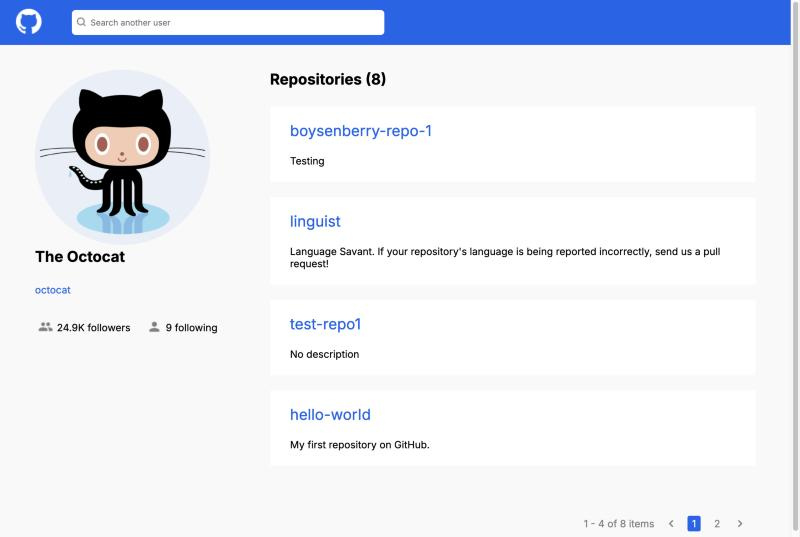
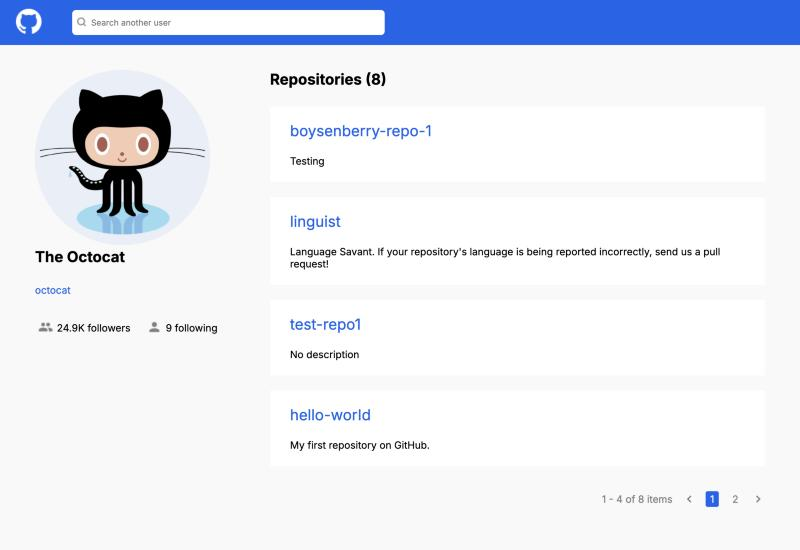
fix: place pagination under the repositories list
Render the pagination inside the repositories section so it stays next
to the list on wide screens, aligned with the right edge of the cards.

Also strengthen the search button hover state and exclude the animated
glow from pointer events.

diff --git a/src/components/Profile/Profile.tsx b/src/components/Profile/Profile.tsx
@@ -1,5 +1,5 @@
 import Image from "../Image/ImageComponent";
-import { FC } from "react";
+import { FC, ReactNode } from "react";
 import styles from "./styles.profile.module.css";
 import FollowersIcon from "../../images/followers.png";
 import FollowingIcon from "../../images/following.png";
@@ -13,6 +13,7 @@ type Props = {
   user: GithubUser;
   repositories: GithubRepository[];
   repositoriesStatus: RepositoriesStatus;
+  children?: ReactNode;
 };
 
 const numberFormatter = new Intl.NumberFormat("en", {
@@ -20,7 +21,12 @@ const numberFormatter = new Intl.NumberFormat("en", {
   maximumFractionDigits: 1,
 });
 
-const Profile: FC<Props> = ({ user, repositories, repositoriesStatus }) => {
+const Profile: FC<Props> = ({
+  user,
+  repositories,
+  repositoriesStatus,
+  children,
+}) => {
   return (
     <div className={styles.mainInfo}>
       <div className={styles.blockProfile}>
@@ -84,6 +90,7 @@ const Profile: FC<Props> = ({ user, repositories, repositoriesStatus }) => {
               />
             ))
           )}
+          {children}
         </div>
       ) : (
         <StatusDisplay {...LIST_STATUS.no_repositories_status} />

diff --git a/src/App.test.tsx b/src/App.test.tsx
@@ -36,6 +36,32 @@ describe("App", () => {
     expect(screen.getByText("1 - 4 of 9 items")).toBeInTheDocument();
   });
 
+  it("shows the pagination inside the repositories section", async () => {
+    mockGithub({ octocat: {} });
+    render(<App />);
+
+    await searchFor("octocat");
+
+    const heading = await screen.findByRole("heading", {
+      name: "Repositories (9)",
+    });
+    expect(heading.parentElement).toContainElement(
+      screen.getByText("1 - 4 of 9 items")
+    );
+  });
+
+  it("hides the pagination for a user without repositories", async () => {
+    mockGithub({ empty: { user: { public_repos: 0 } } });
+    render(<App />);
+
+    await searchFor("empty");
+
+    expect(
+      await screen.findByText("Repository list is empty")
+    ).toBeInTheDocument();
+    expect(screen.queryByText(/of 0 items/)).not.toBeInTheDocument();
+  });
+
   it("searches an example user from the start screen", async () => {
     mockGithub({ torvalds: {} });
     render(<App />);

diff --git a/src/components/Hero/style.hero.module.css b/src/components/Hero/style.hero.module.css
@@ -30,6 +30,7 @@
   );
   filter: blur(90px);
   transform: translate(-50%, -50%);
+  pointer-events: none;
   animation: glowSpin 18s linear infinite;
 }
 
@@ -128,11 +129,18 @@
   cursor: pointer;
   font-size: 16px;
   font-weight: 600;
-  transition: background 0.15s ease;
+  transition:
+    background 0.15s ease,
+    box-shadow 0.15s ease;
 }
 
 .searchButton:hover {
   background: var(--color-bg-hover);
+  box-shadow: 0 6px 16px rgb(0 100 235 / 35%);
+}
+
+.searchButton:active {
+  box-shadow: none;
 }
 
 .examples {
@@ -159,14 +167,12 @@
   font-size: 14px;
   transition:
     border-color 0.15s ease,
-    color 0.15s ease,
-    transform 0.15s ease;
+    color 0.15s ease;
 }
 
 .example:hover {
   border-color: var(--color-bg);
   color: var(--color-bg);
-  transform: translateY(-1px);
 }
 
 .searchButton:focus-visible,
@@ -198,5 +204,10 @@
   .glow,
   .content {
     animation: none;
+  }
+
+  .searchButton,
+  .example {
+    transition: none;
   }
 }

diff --git a/src/App.tsx b/src/App.tsx
@@ -68,14 +68,13 @@ function App() {
             user={user}
             repositories={repositories}
             repositoriesStatus={repositoriesStatus}
-          />
-          {user.public_repos !== 0 && (
+          >
             <PaginationPanel
               allItemsOfRepo={user.public_repos}
               currentPage={page}
               onPageChange={loadPage}
             />
-          )}
+          </Profile>
         </main>
       );
     }

diff --git a/src/components/Pagination/style.pagination.module.css b/src/components/Pagination/style.pagination.module.css
@@ -27,10 +27,8 @@
   border-radius: 3px;
 }
 .infoPagination {
-  position: relative;
-  justify-content: end;
-  margin-right: 70px;
   display: flex;
+  justify-content: flex-end;
   align-items: center;
   color: var(--text-pagination-color);
 }
@@ -56,7 +54,6 @@
   .infoPagination {
     flex-wrap: wrap;
     justify-content: center;
-    margin: 0 16px;
   }
   .Pagination > li {
     margin-left: 8px;
